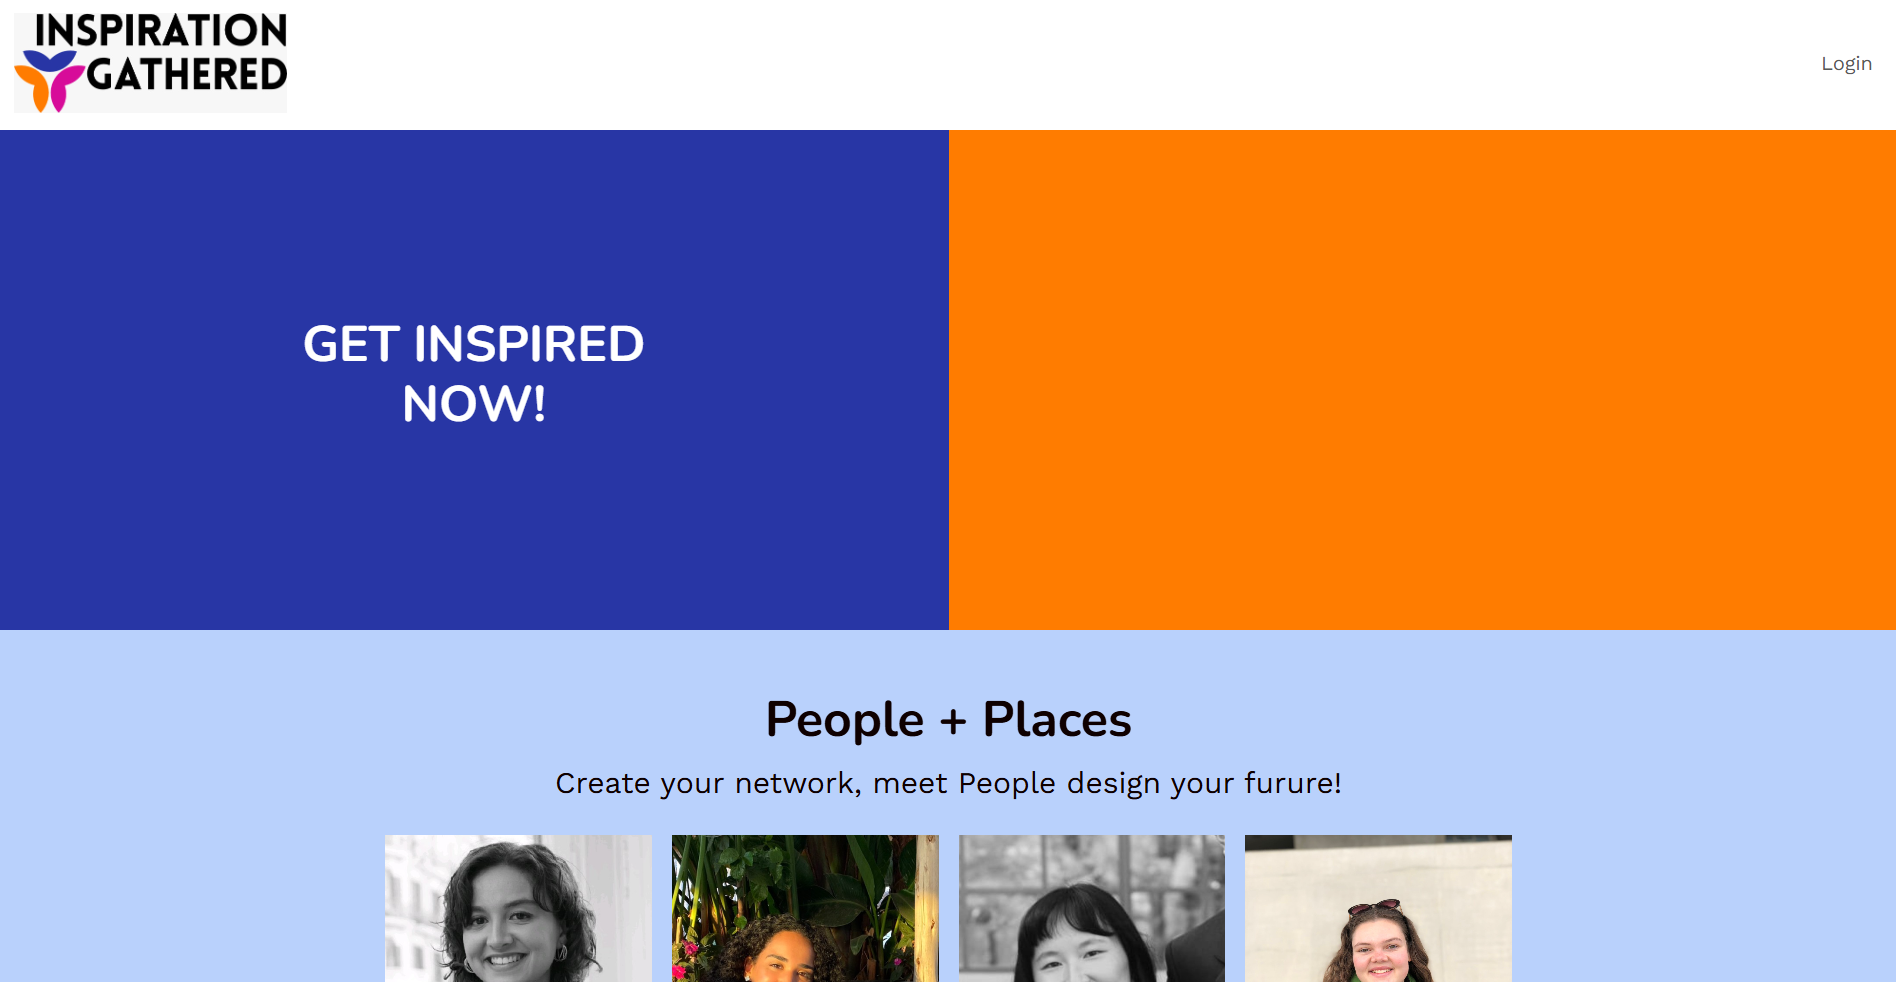
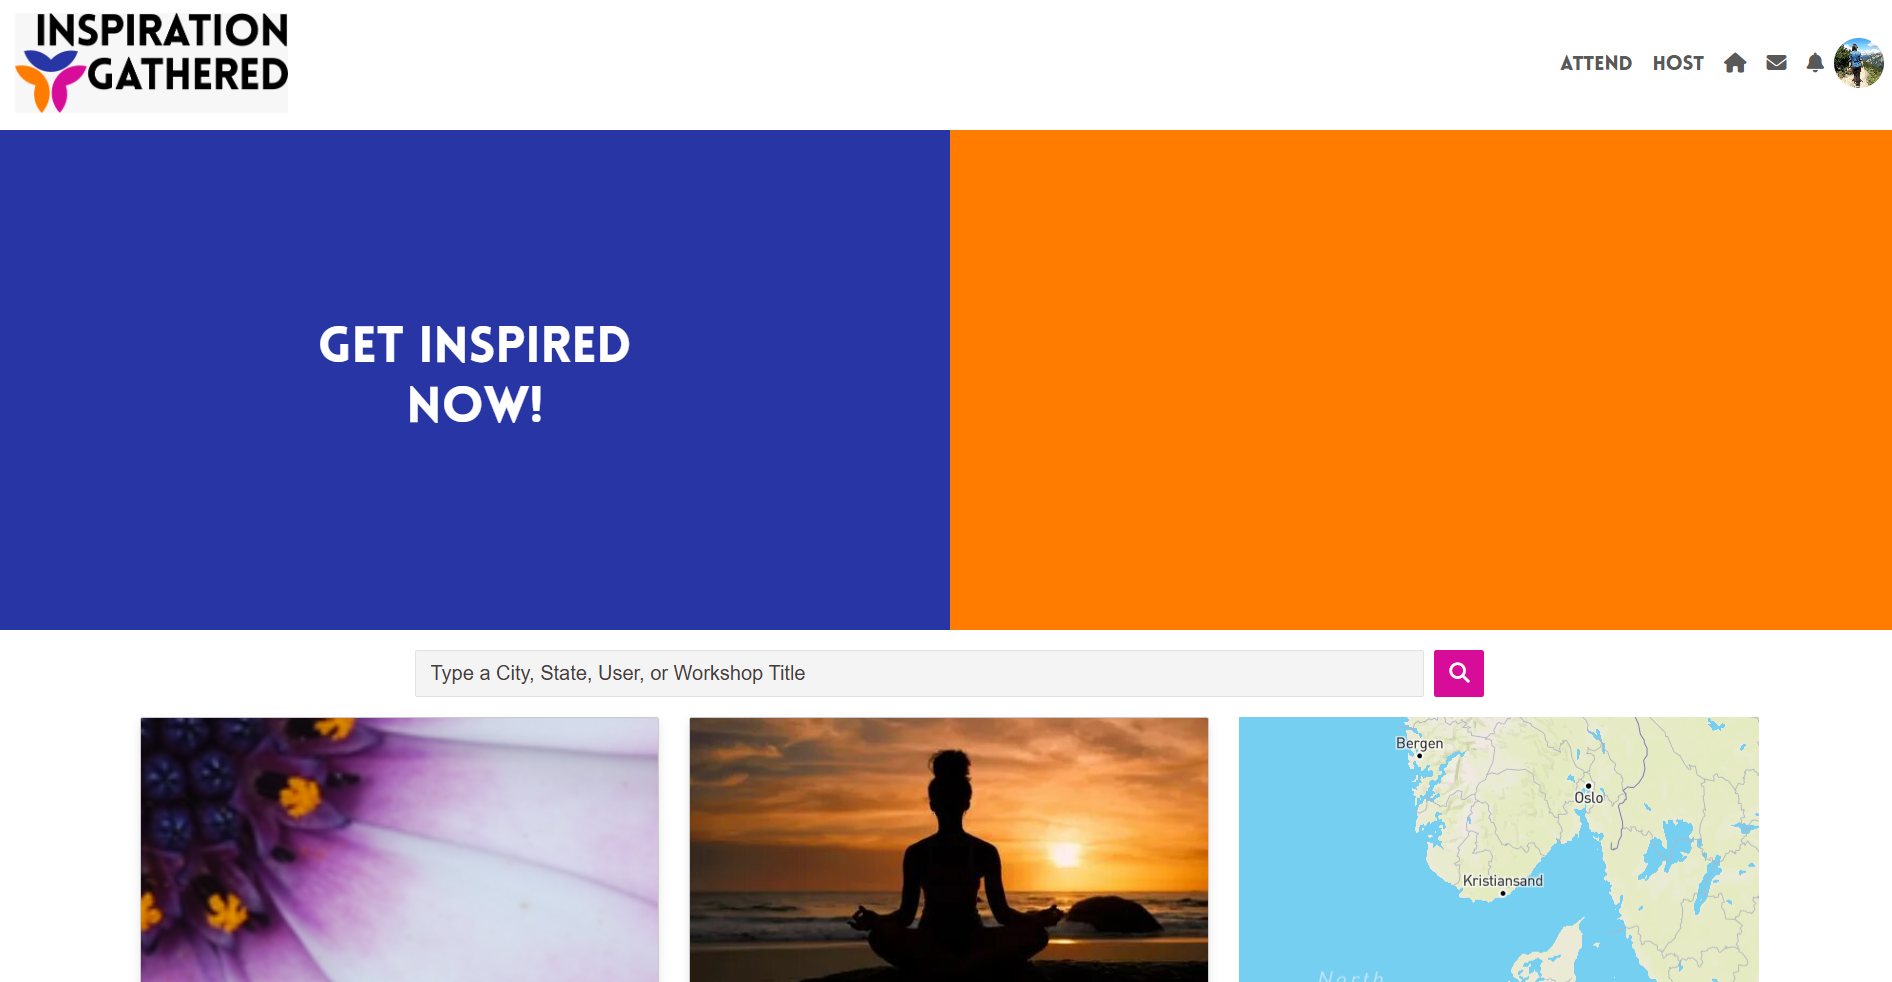
new images for inspiration gathered

diff --git a/data/index.ts b/data/index.ts
@@ -28,6 +28,34 @@ export const data = [
         imgAlt: "Inspiration Gathered Image 3",
         sizes: "(max-width: 768px) 100vw, (max-width: 1200px) 50vw, 33vw",
       },
+      {
+        title: "Attend Workshops",
+        description: "Through the Attend section, users can readily record their bookings, both past and upcoming.",
+        imgSrc: "/inspbooking.png",
+        imgAlt: "Inspiration Gathered Image 4",
+        sizes: "(max-width: 768px) 100vw, (max-width: 1200px) 50vw, 33vw",
+      },
+      {
+        title: "Chat with the Host",
+        description: "The Chat feature allows users to communicate directly with the workshop host, fostering a sense of community and connection.",
+        imgSrc: "/inspchat.png",
+        imgAlt: "Inspiration Gathered Image 4",
+        sizes: "(max-width: 768px) 100vw, (max-width: 1200px) 50vw, 33vw",
+      },
+      {
+        title: "Create your Workshop",
+        description: "Create your workshop, thanks the geolocalization, you can set the location of your workshop and the users can find it easily. Upload images thanks to Cloudinary.",
+        imgSrc: "/inspnew.png",
+        imgAlt: "Inspiration Gathered Image 4",
+        sizes: "(max-width: 768px) 100vw, (max-width: 1200px) 50vw, 33vw",
+      },
+      {
+        title: "Book a spot in a Workshop",
+        description: "Book a spot in a workshop, thanks to the geolocalization, you can find the workshop near you.",
+        imgSrc: "/inspwork.png",
+        imgAlt: "Inspiration Gathered Image 4",
+        sizes: "(max-width: 768px) 100vw, (max-width: 1200px) 50vw, 33vw",
+      },
     ],
   },
   {
